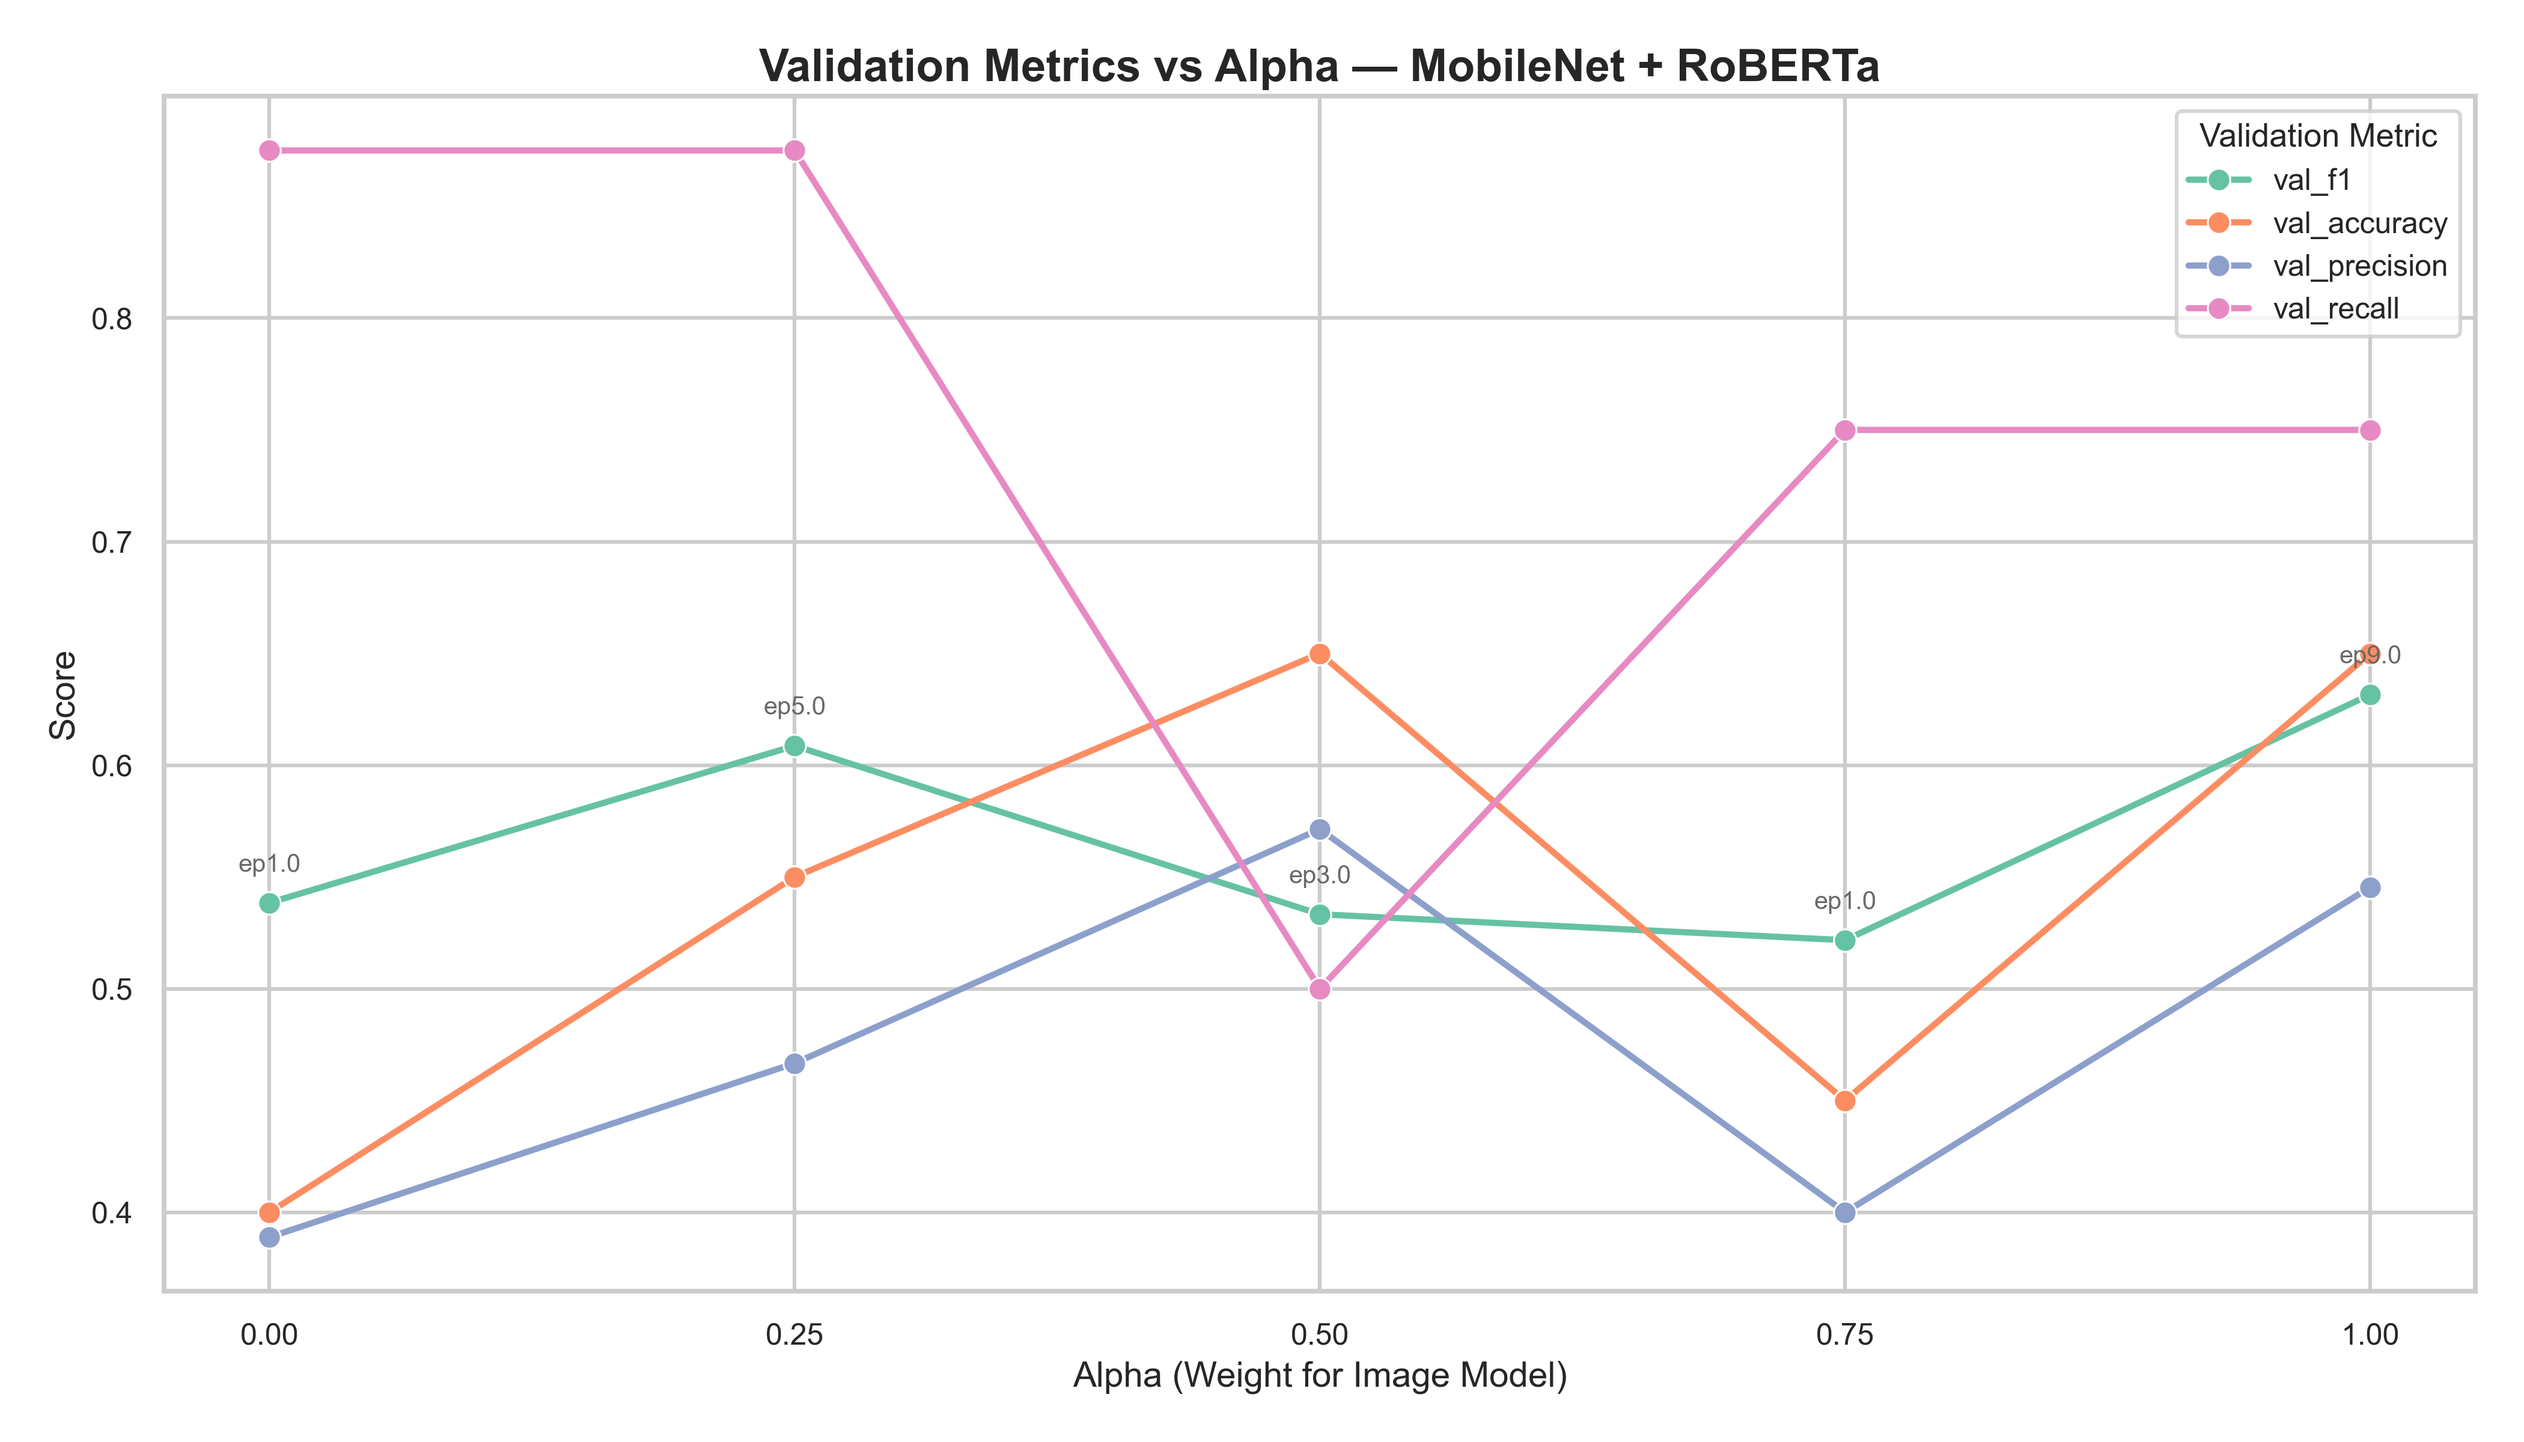
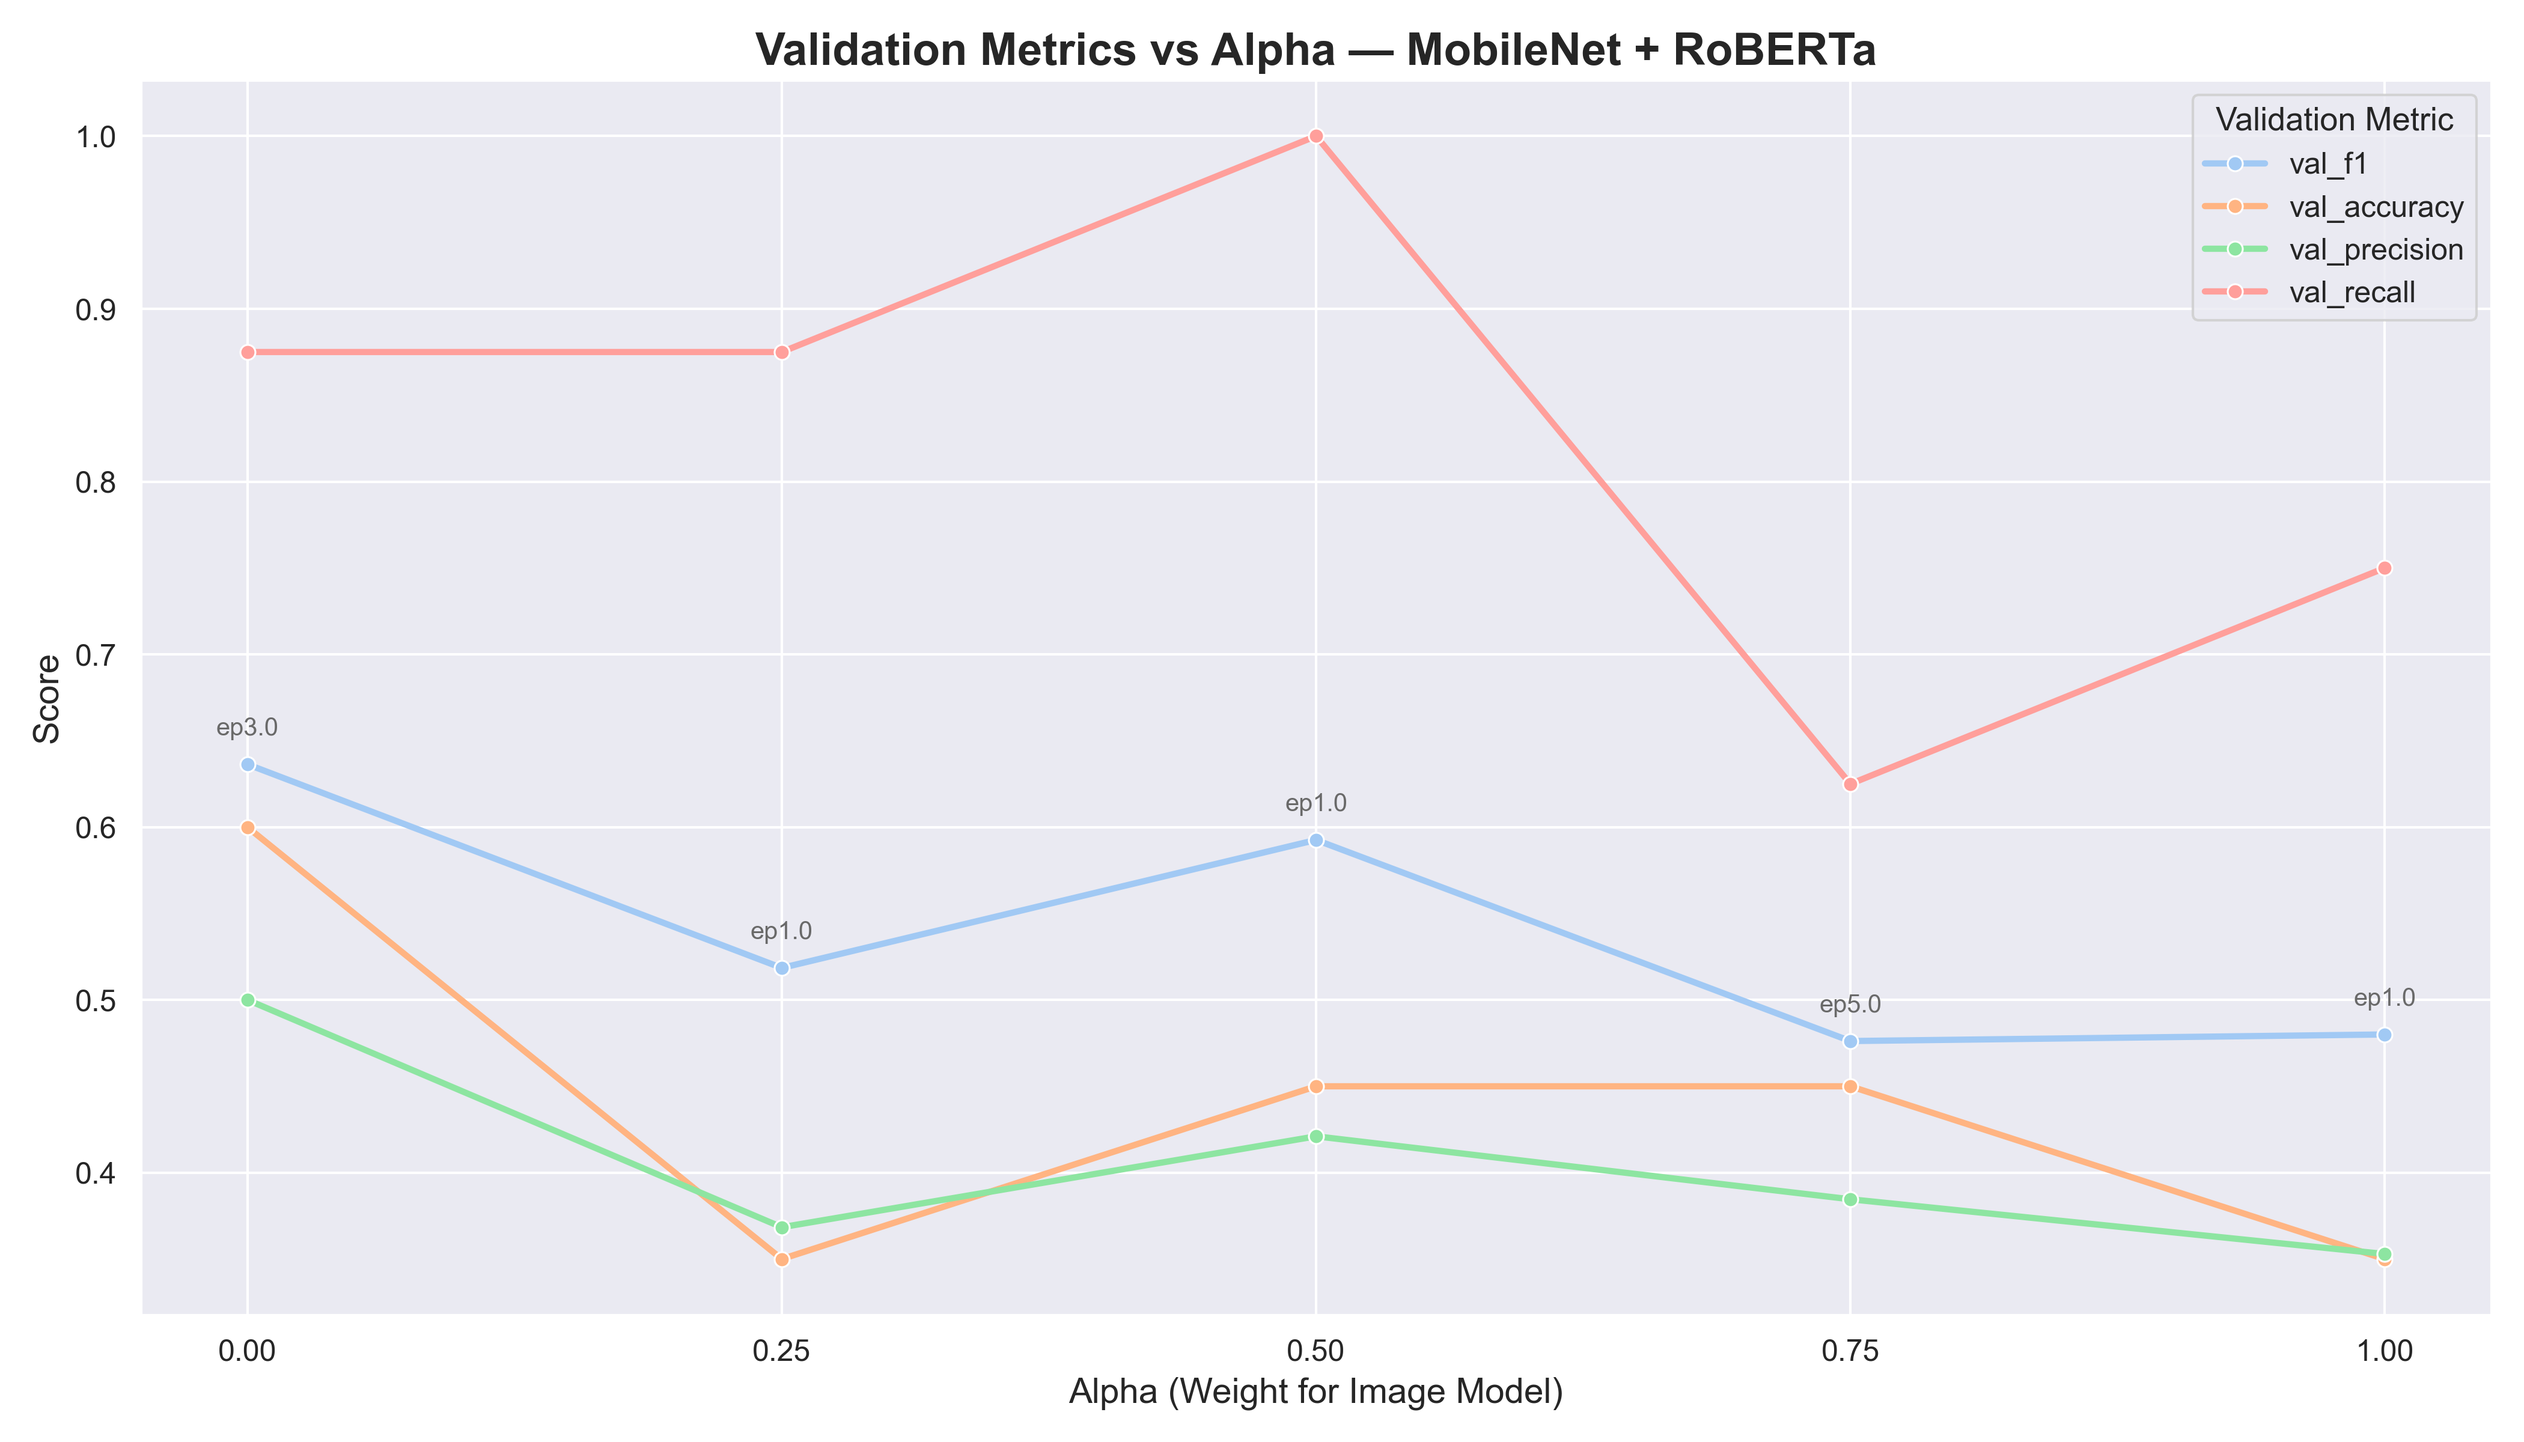
graph things

diff --git a/scripts/plot_mobilenet_roberta_final_alpha_metrics.py b/scripts/plot_mobilenet_roberta_final_alpha_metrics.py
@@ -4,12 +4,12 @@ import seaborn as sns
 import matplotlib.pyplot as plt
 
 # --- Config ---
-LOG_PATH = "logs/bilstm_efficientnet"  # Path to your log folder
+LOG_PATH = "logs/mobilenet_roberta/final_model" 
 PLOT_SAVE_DIR = "plots"
 os.makedirs(PLOT_SAVE_DIR, exist_ok=True)
-PLOT_SAVE_PATH = os.path.join(PLOT_SAVE_DIR, "bilstm_efficientnet_metrics.png")
+PLOT_SAVE_PATH = os.path.join(PLOT_SAVE_DIR, "mobilenet_roberta_metrics.png")
 
-def plotbiLSTM_EfficientNET():
+def plotroBERTaMobileNet():
     sns.set_theme(style='darkgrid', palette='pastel', font='sans-serif', font_scale=1, rc=None)
 
     # --- Collect metrics ---
@@ -58,7 +58,7 @@ def plotbiLSTM_EfficientNET():
         linestyle="--"
     )
 
-    plt.title("Training & Validation Metrics — BiLSTM + EfficientNet", fontsize=18, weight='bold')
+    plt.title("Training & Validation Metrics — MobileNet + roBERTa", fontsize=18, weight='bold')
     plt.xlabel("Epoch", fontsize=14)
     plt.ylabel("Score", fontsize=14)
     plt.xticks(fontsize=12)
@@ -70,4 +70,4 @@ def plotbiLSTM_EfficientNET():
     plt.savefig(PLOT_SAVE_PATH, dpi=300)
     plt.show()
 
-# plotbiLSTM_EfficientNET()
+# plotroBERTaMobileNet()

diff --git a/scripts/plot_alpha_results.py b/scripts/plot_alpha_results.py
@@ -54,8 +54,6 @@ def plotAlphaResults():
     )
 
     # --- Plotting ---
-    sns.set_theme(style="whitegrid", context="talk")
-    palette = sns.color_palette("Set2")
 
     plt.figure(figsize=(14, 8))
     ax = sns.lineplot(
@@ -64,7 +62,6 @@ def plotAlphaResults():
         y="Score", 
         hue="Metric", 
         marker="o", 
-        palette=palette,
         linewidth=2.5
     )
 
@@ -89,3 +86,5 @@ def plotAlphaResults():
     plt.tight_layout()
     plt.savefig(PLOT_SAVE_PATH, dpi=300)
     plt.show()
+
+# plotAlphaResults()

diff --git a/scripts/run_mobilenet_roberta.py b/scripts/run_mobilenet_roberta.py
@@ -16,6 +16,7 @@ from sklearn.model_selection import train_test_split
 import pandas as pd
 from torchvision import transforms
 from plot_alpha_results import plotAlphaResults
+from plot_mobilenet_roberta_final_alpha_metrics import plotroBERTaMobileNet
 
 # ------------------ CONFIG ------------------
 DATA_PATH = "DATA/balanced_dataset.csv"
@@ -163,3 +164,4 @@ logging.info(f"\nFinal Test Metrics (after alpha tuning):\nAccuracy: {acc:.4f}, 
 logging.info(f"Classification Report:\n{report}")
 
 plotAlphaResults()
+plotroBERTaMobileNet()
